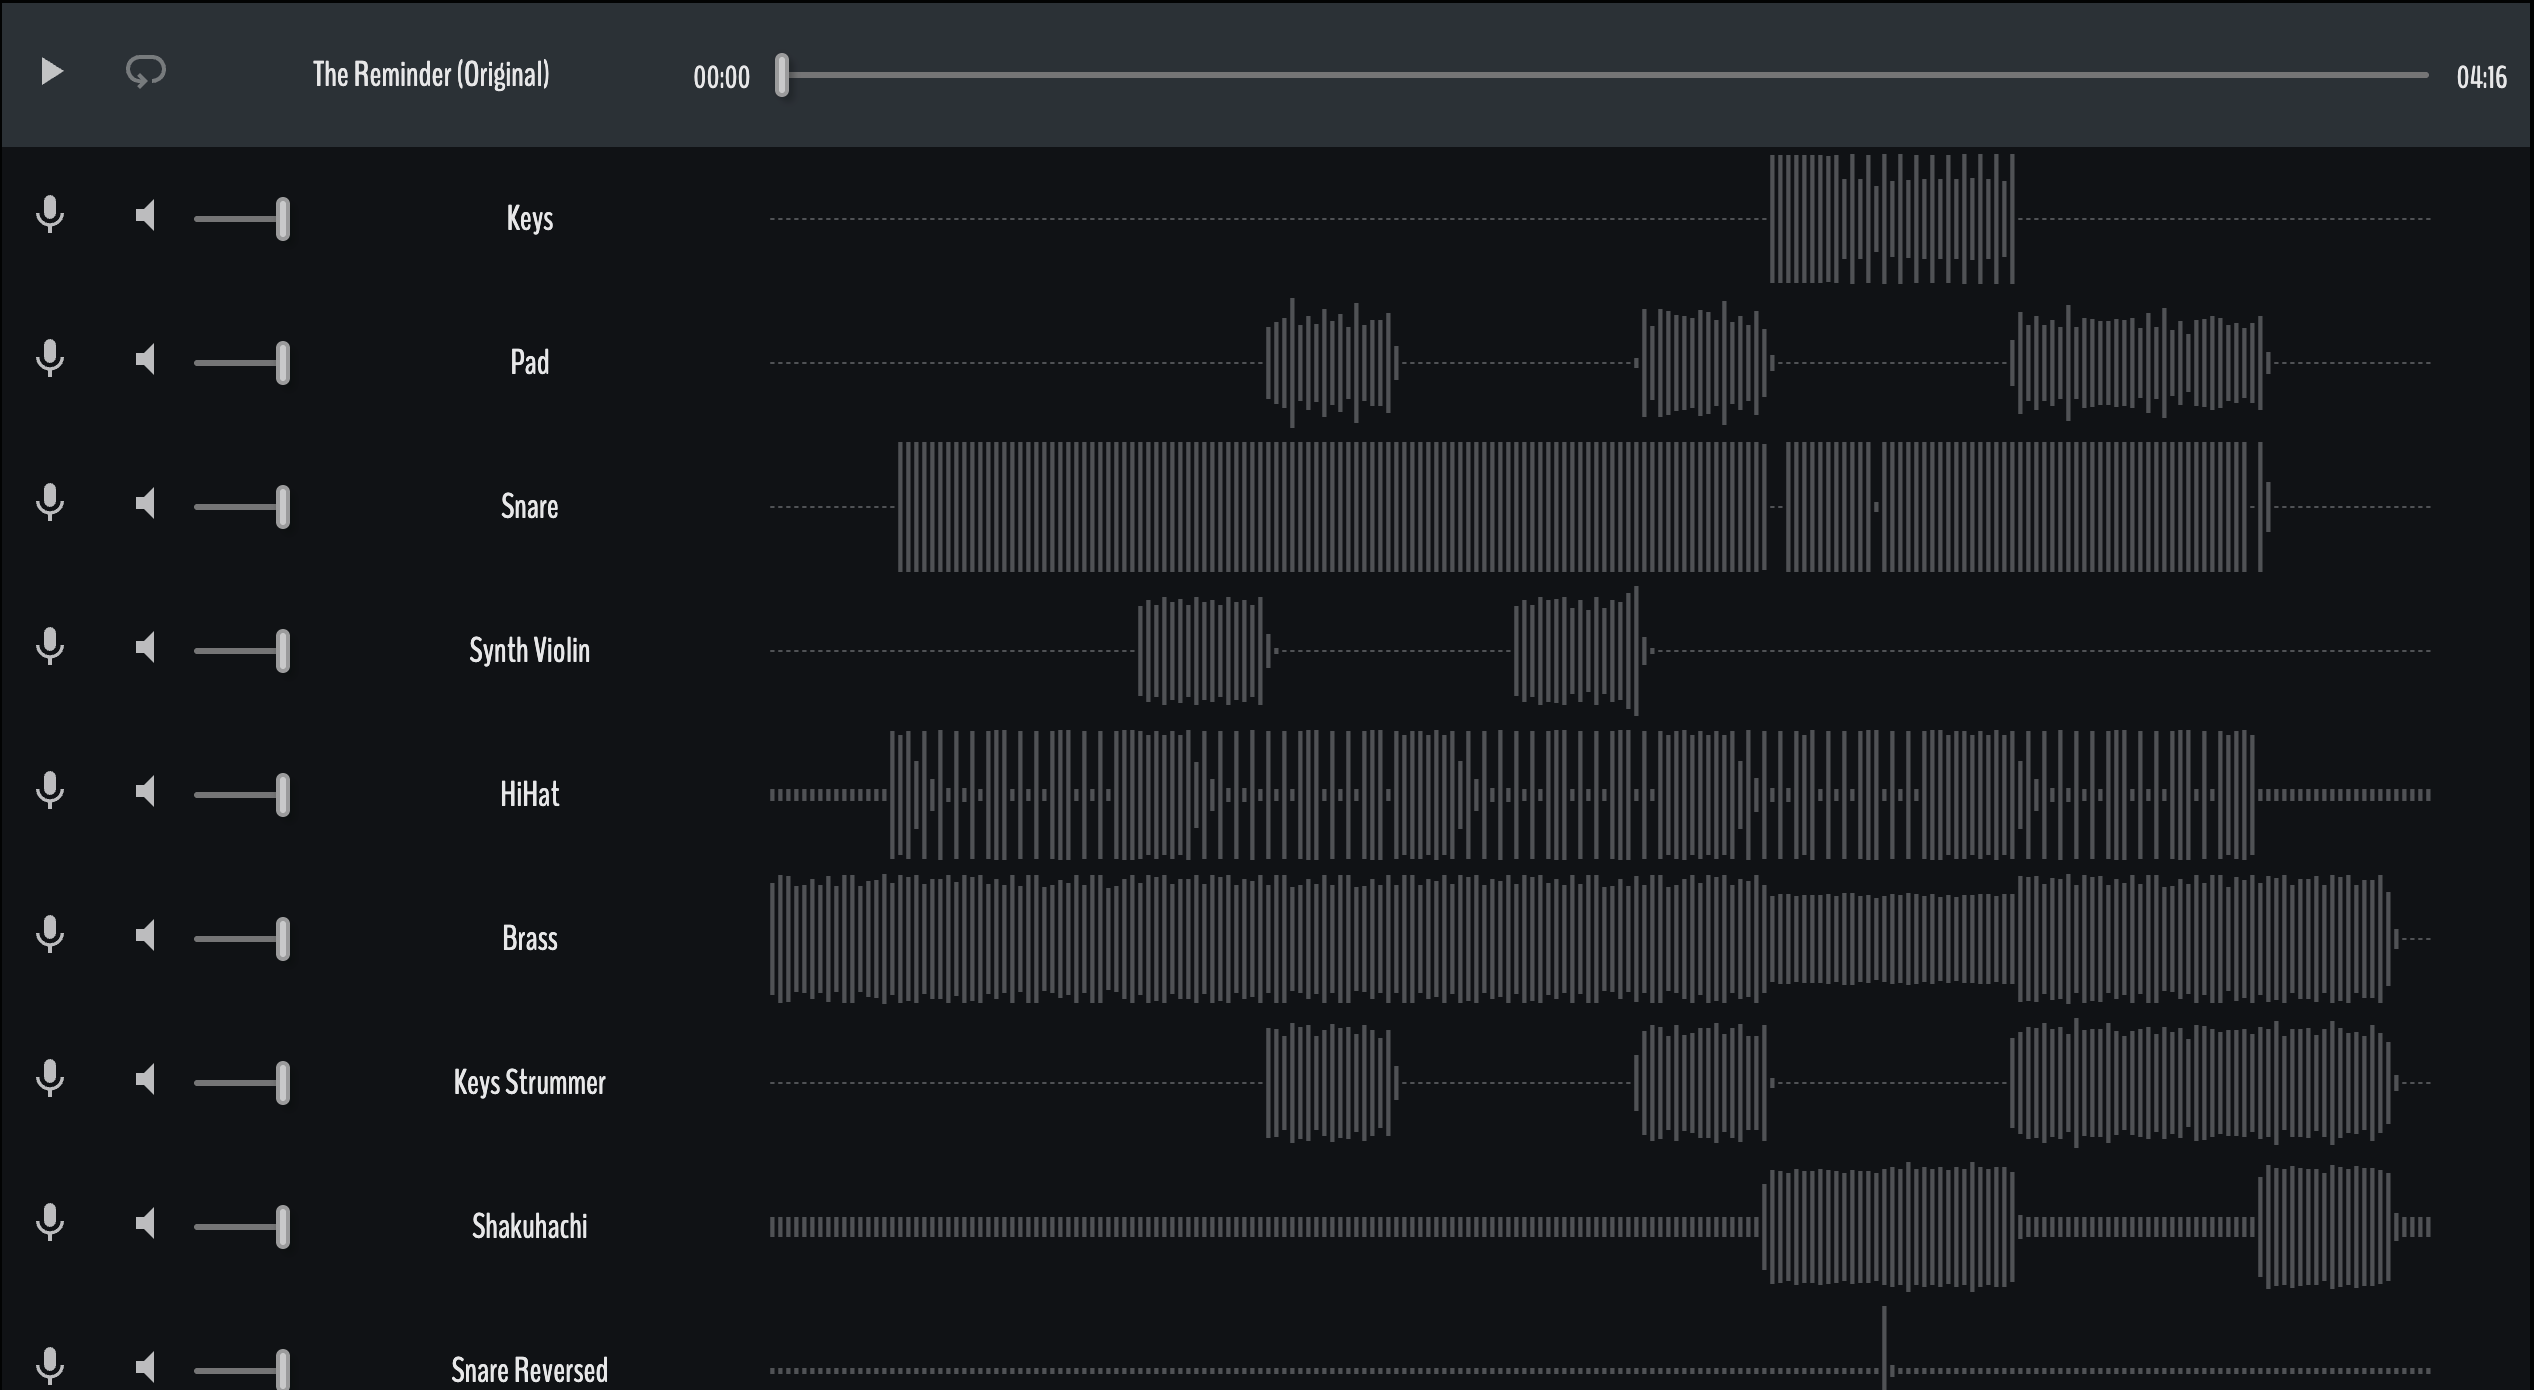
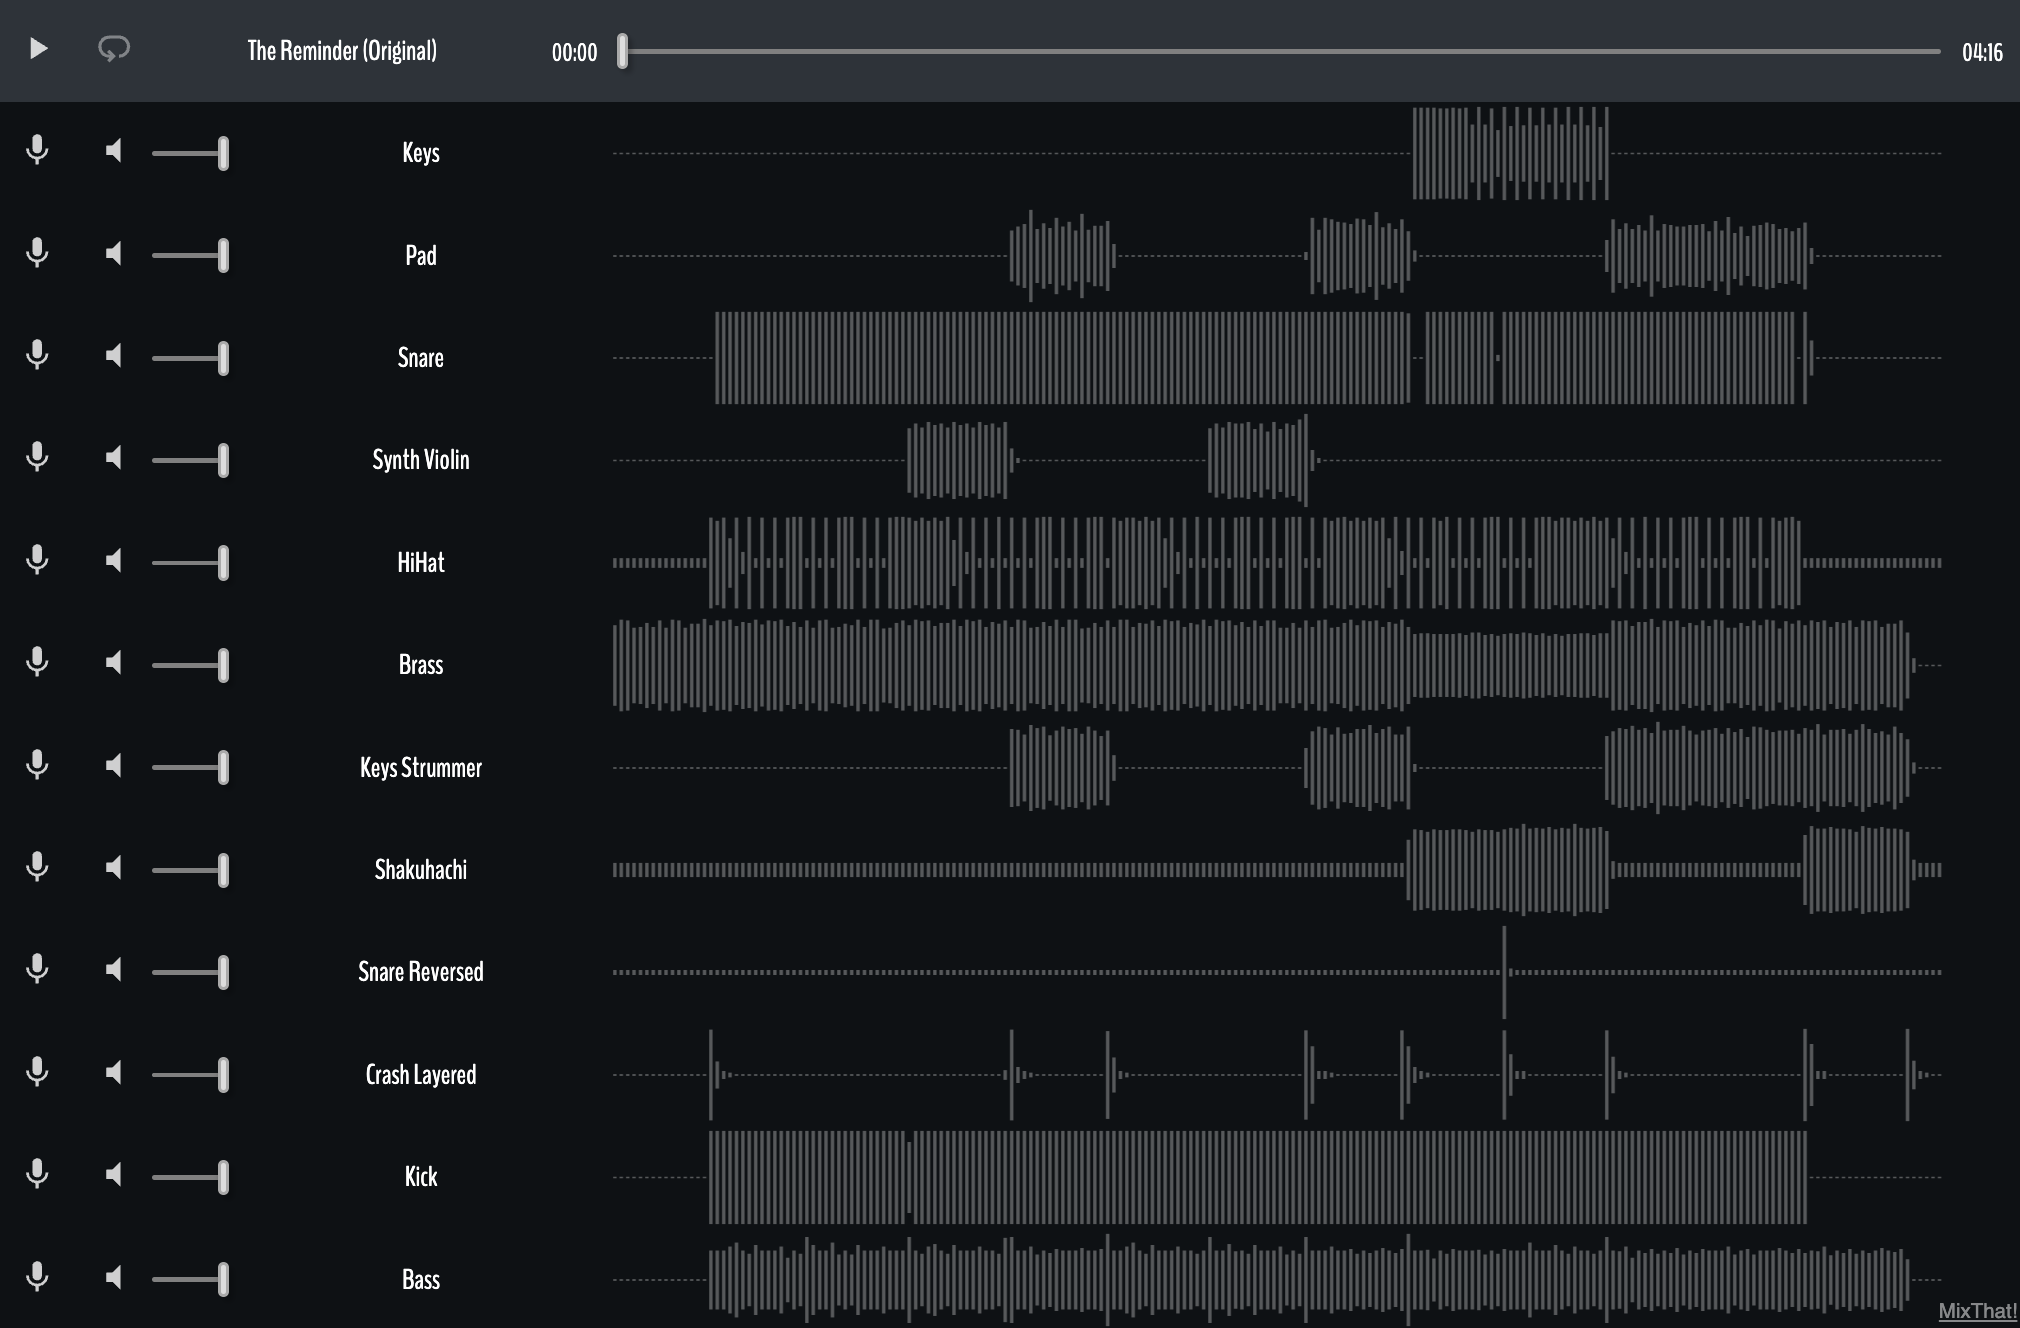
mixes feature annouyncement and tweaks homepage

diff --git a/layouts/index.html b/layouts/index.html
@@ -38,7 +38,9 @@
             --stemplayer-js-row-end-background-color: rgb(14, 17, 20);
             --stemplayer-js-controls-background-color: #2d3339;
             --fc-player-button-focus-color: black;
-            --stemplayer-js-row-height: 4.5rem;
+            --stemplayer-hover-mix-blend-mode: color-dodge;
+            --stemplayer-hover-background-color: rgba(255, 196, 0, 0.3);
+            --stemplayer-js-row-height: 4rem;
             --stemplayer-js-font-size: 1.3rem;
             --stemplayer-js-font-family: 'BenchNine', sans-serif;
             --stemplayer-js-waveform-color: rgba(255, 255, 255, 0.3);

diff --git a/content/blog/new-feature-saving-mixes/index.md b/content/blog/new-feature-saving-mixes/index.md
@@ -1,0 +1,41 @@
+---
+title: "New Feature: Saving and Playing Back a Mix"
+description: "We are excited to announce a new feature that allows you to save your custom mix states and return to them later!"
+summary: "We are excited to announce a new feature that allows you to save your custom mix states and return to them later! Perfect for producers and listeners alike."
+date: 2026-04-15T00:00:00+00:00
+lastmod: 2026-04-15T00:00:00+00:00
+draft: false
+weight: 10
+tags: ["Product Update", "Features", "MixThat"]
+categories: ["Announcements"]
+contributors: []
+seo:
+  title: "New Feature: Saving and Playing Back a Mix | Mix That Blog"
+  description: "Learn about the new Mix Management feature on Mix That, allowing users to save and recall custom playback settings."
+  canonical: "/blog/new-feature-saving-mixes/"
+  robots: "index, follow"
+---
+
+We're thrilled to introduce one of our most highly requested features: **Track Mix Management**!
+
+Whether you're a producer trying out different arrangements, or a listener wanting to save your perfect balance of instruments, you can now capture and recall your precise playback settings.
+
+## What’s New?
+
+The Mix Management feature enables you to save custom audio mix states for any given track natively.
+
+Simply put: when you adjust the volume and mute statuses of individual stems on a track, you can now **save those exact settings** to access later.
+
+### Here's how it enhances your experience:
+
+- **Listeners:** Found the perfect mix? Save your customized progress and simply come back to it whenever you're ready, without losing your bespoke levels.
+- **Producers/Owners:** You can save various preset mixes—such as a "Vocal Boost Mix," or an instrumental version—without having to alter the original track files.
+
+## Key Features
+
+1. **Save Your Sounds:** Save the current playback state securely, with an optional name making it easy to identify later.
+2. **Access Your History:** View a chronological history of your saved mixes, keeping your creative exploration organized.
+3. **Restore Instantly:** Pick any saved mix state and restore it instantly into the audio player—exactly how you left it.
+
+For a full guide on using the feature, view our [documentation](/docs/general/saving-and-playing-back-a-mix/).
+

diff --git a/content/docs/general/saving-and-playing-back-a-mix.md b/content/docs/general/saving-and-playing-back-a-mix.md
@@ -1,0 +1,50 @@
+---
+title: "Saving and Playing Back a Mix"
+description: "Learn how to save, retrieve, update, and delete custom audio mix states for individual tracks."
+summary: "Overview of the Track Mix Management feature, enabling users to save and recall custom playback settings."
+date: 2026-04-15T00:00:00+00:00
+lastmod: 2026-04-15T00:00:00+00:00
+draft: false
+weight: 10
+toc: true
+seo:
+  title: "Saving and Playing Back a Mix | Mix That"
+  description: "Learn how to save, retrieve, update, and delete custom audio mix states for individual tracks."
+  canonical: "/docs/general/saving-and-playing-back-a-mix/"
+  robots: "index, follow"
+---
+
+## Overview
+
+The Mix Management feature allows users to save, retrieve, update, and delete custom audio mix states for individual tracks. A "mix state" captures the specific playback settings—namely the volume levels and mute statuses—for the individual stems (files) comprising a track.
+
+This enables several key user experiences:
+
+- **Listeners** can save their progress or preferred mix and return to it later.
+- **Producers/Owners** can save different preset mixes for their tracks.
+- **Platform Integrations** can manage mix states on behalf of their own end-users transparently.
+
+## Core Capabilities
+
+### 1. Saving a Mix
+
+Users can save their current playback state for a track.
+
+- **Mix State:** Captures the volume and mute settings for each stem in the track.
+- **Naming:** Users can optionally provide a distinct name (up to 100 characters) to identify the mix (e.g., "Vocal Boost Mix").
+- **Creation:** The system records the creation time of your saved mix.
+
+### 2. Listing Mixes
+
+Users can view their history of saved mixes for a specific track.
+
+- **Ordering:** Mixes are displayed in descending chronological order (newest first).
+
+### 3. Retrieving a Mix
+
+Users can restore a saved state directly into the audio player, applying the exact settings that were previously saved.
+
+### 4. Deleting a Mix
+
+Users can permanently remove a saved mix they no longer need from their library.
+

diff --git a/content/docs/plans/creator.md b/content/docs/plans/creator.md
@@ -34,7 +34,7 @@ They are a strong fit for songwriters, producers, and independent artists who wa
 | **Streams/Downloads Quota** | 2K/month                             | 5K/month           | 25K/month           |
 | **Audio Max Quality**       | STANDARD                             | STANDARD           | HIGH                |
 | **Audio Max Duration**      | 5min                                 | 10min              | 25min               |
-| **Sharing & Embedding**     | 3-day expiring URLs                  | Extended/permanent | Extended/permanent  |
+| **Sharing & Embedding**     | Up to 14-day expiring URLs           | Extended/permanent | Extended/permanent  |
 | **Track Retention**         | Deleted after 3 months of inactivity | Permanent\*        | Permanent\*         |
 | **API Access**              | None                                 | None               | Full                |
 | **API Request Quota**       | N/A                                  | N/A                | 3000 requests/month |
